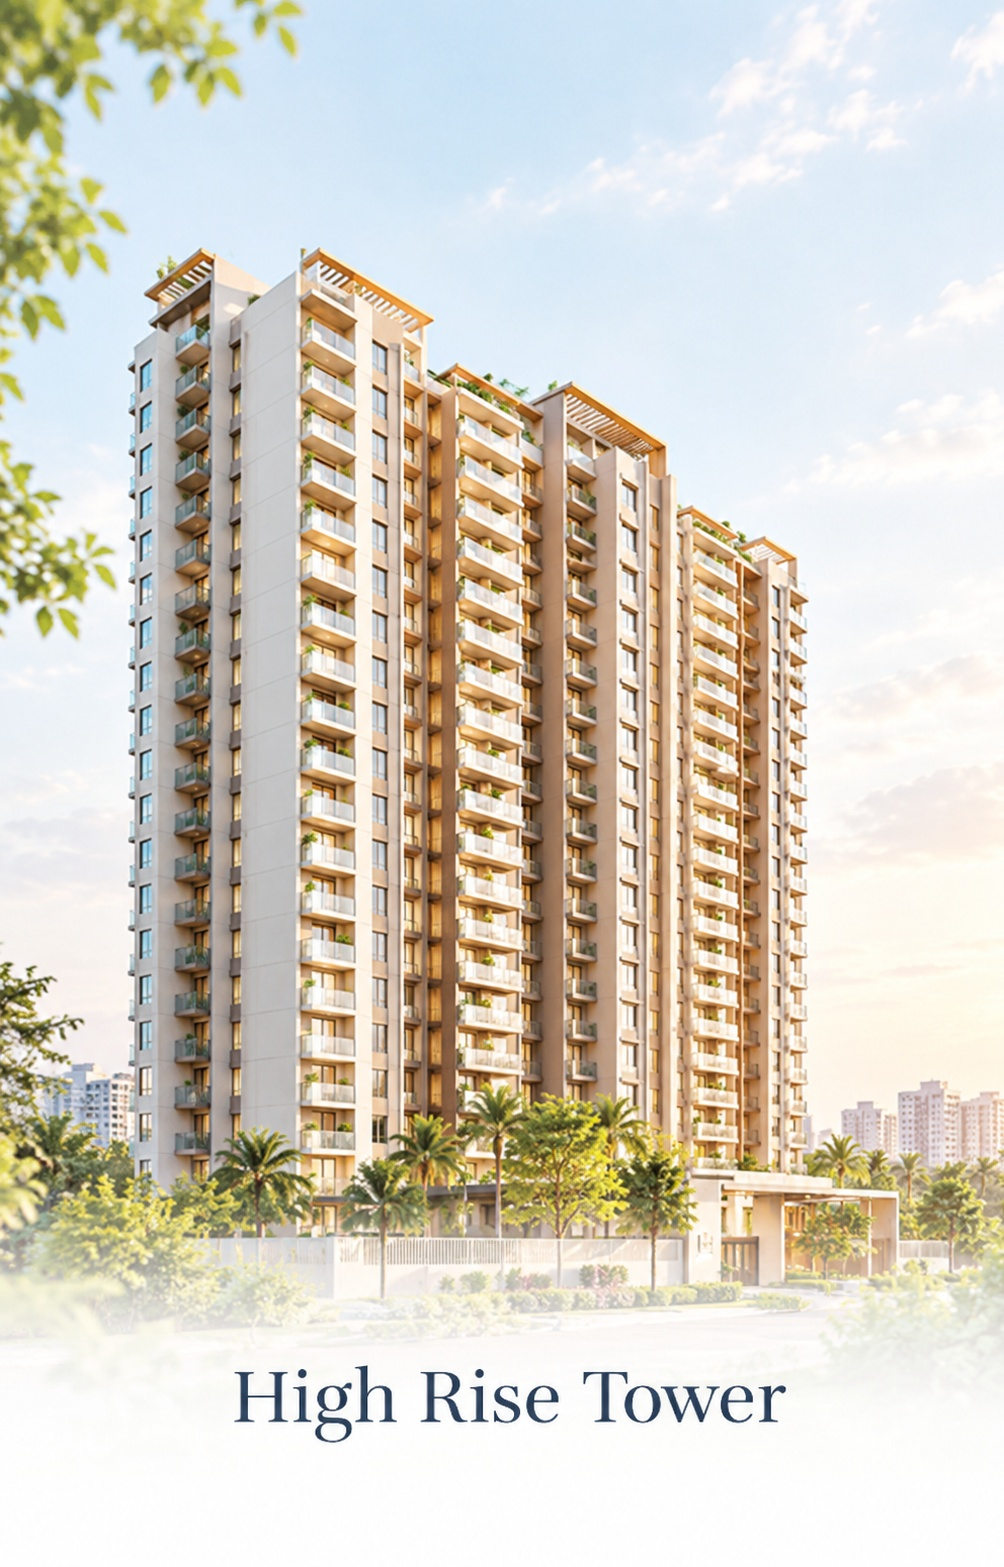
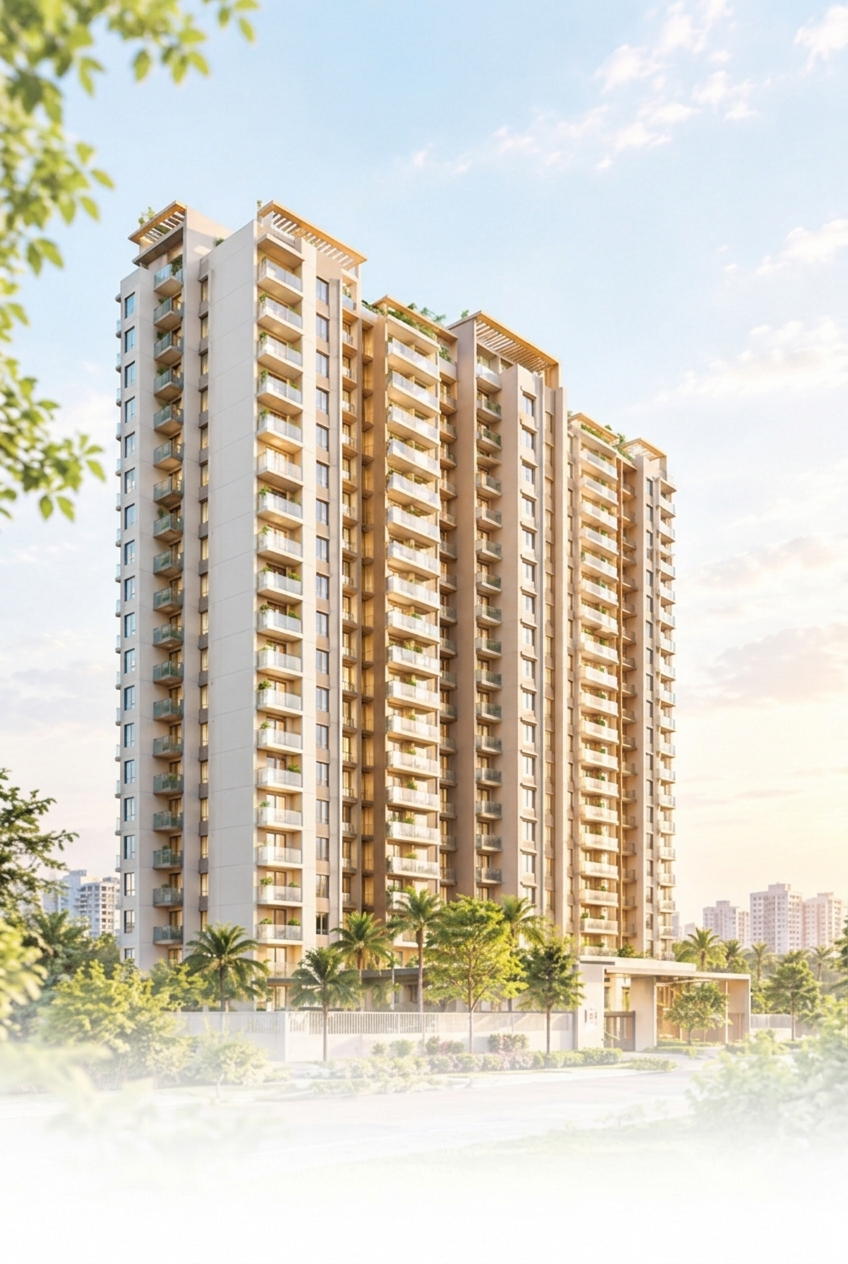
Fix Skydale amenity text and clean tower image to match design system

diff --git a/src/landings/skydale/content.js b/src/landings/skydale/content.js
@@ -60,7 +60,7 @@ const skydale = {
       { src: image('amenities/lounge.jpg'), label: 'Community Hall' },
       { src: image('amenities/tower.jpg'), label: 'High Rise Tower' },
       { src: image('amenities/table-tennis.jpg'), label: 'Indoor Games' },
-      { src: image('amenities/balcony.jpg'), label: 'Panaromic Balconies' },
+      { src: image('amenities/balcony.jpg'), label: 'Panoramic Balconies' },
     ],
   },
   plansTitle: 'E-Wing Floor Plans',

diff --git a/src/landings/landing.css b/src/landings/landing.css
@@ -1189,11 +1189,6 @@
   object-position: center bottom;
 }
 
-.lp-page.lp-brand-skydale .lp-bento-shot.is-slot-3::after,
-.lp-page.lp-brand-skydale .lp-bento-shot.is-slot-3 span {
-  display: none;
-}
-
 .lp-page.lp-brand-westia .lp-bento-shot:not(.is-lead) img {
   object-position: center center;
 }
